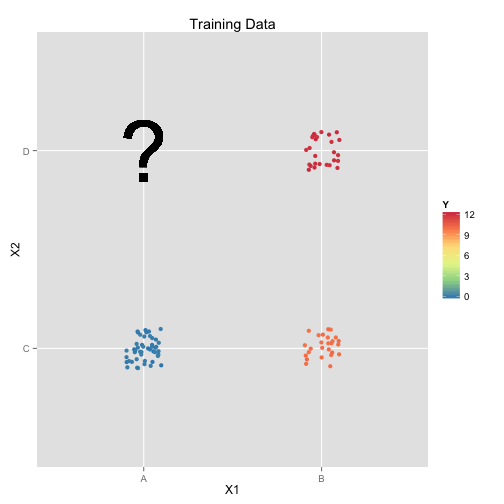
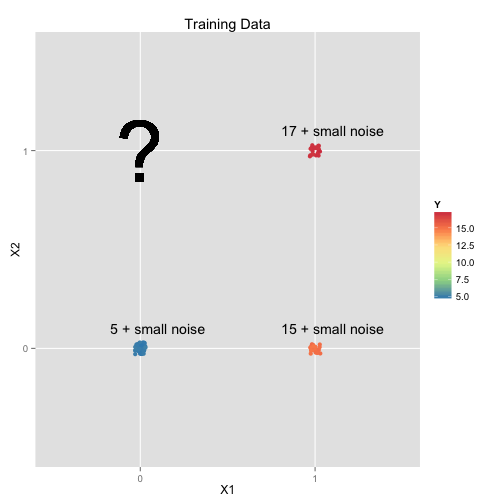
progress

diff --git a/_posts/2015-01-14-interaction-or-not.md b/_posts/2015-01-14-interaction-or-not.md
@@ -1,32 +1,48 @@
 ---
-title: "Stuff"
+title: "A Preference for Interactions? (Know Your Implicit Priors!)"
 layout: post
 category: posts
 draft: true
 ---
 
+Often we think of "interactions" (when the effect of one feature differs depending on the value of another) as interesting/surprising discoveries. Given that, we often use models that prefer not using interactions, introducing them only when the evidence warrants. In this post, I'll use a simple toy example to walk through why decision trees and ensembles of decision trees (Random Forests) do just the opposite: When the evidence is equally consistent with an interaction effect and no interaction, they prefer the interaction effect.
+
+I'll also look at a neat Bayesian machine learning algorithm, [Bayesian Additive Regression Trees](http://cran.r-project.org/web/packages/bartMachine/vignettes/bartMachine.pdf), and show how the parameters controlling the prior distribution affect the model's tendency to learn an interaction effect.
+
+Suppose you're given this data and asked to make a prediction about `$X_1 = 0$, $X_2 = 1$`.
+
 ![plot of chunk unnamed-chunk-1](/images/posts/interaction-or-not/unnamed-chunk-1.png) 
 
-
-```r
-library(xtable)
-print(xtable(uniques, align=rep("c", 4)), type="html", include.rownames=FALSE)
-```
-
 <!-- html table generated in R 3.1.1 by xtable 1.7-3 package -->
-<!-- Wed Jan 14 09:46:24 2015 -->
+<!-- Thu Jan 15 10:34:20 2015 -->
 <TABLE border=1>
 <TR> <TH> X1 </TH> <TH> X2 </TH> <TH> Y </TH>  </TR>
-  <TR> <TD align="center"> A </TD> <TD align="center"> C </TD> <TD align="center"> 0 + very small noise </TD> </TR>
-  <TR> <TD align="center"> B </TD> <TD align="center"> D </TD> <TD align="center"> 12 + very small noise </TD> </TR>
-  <TR> <TD align="center"> B </TD> <TD align="center"> C </TD> <TD align="center"> 10 + very small noise </TD> </TR>
-  <TR> <TD align="center"> A </TD> <TD align="center"> D </TD> <TD align="center"> ? </TD> </TR>
+  <TR> <TD align="center"> 1 </TD> <TD align="center"> 0 </TD> <TD align="center"> 15 + small noise </TD> </TR>
+  <TR> <TD align="center"> 0 </TD> <TD align="center"> 0 </TD> <TD align="center"> 5 + small noise </TD> </TR>
+  <TR> <TD align="center"> 1 </TD> <TD align="center"> 1 </TD> <TD align="center"> 17 + small noise </TD> </TR>
+  <TR> <TD align="center"> 0 </TD> <TD align="center"> 1 </TD> <TD align="center"> ? </TD> </TR>
    </TABLE>
+
+This example is probably so simple that in practice a model wouldn't be useful. It reminds me of an old criticism of Bayesian reasoning: *If you can really know your prior (what you should think given all previous information), why bother with a model rather than just look at the data and report what you think afterward (your new 'prior') as the answer?* In this case, that's probably exactly what you *should* do.
+
+### A Linear Model
+
+If you fit a linear model of the form `$\mathbb{E}[Y] = \beta_0 + \beta_1 X_1 + \beta_2 X_2$`, you find
+
+`$$\mathbb{E}[Y] = 5 + 10 X_1 + 2 X_2$$`
+
+and this fits the data very well. 
+
+
+
+### Random Forest
+
+
 
 
 
 ```r
-# test <- expand.grid(X1 = c("A", "B"),  X2 = c("C", "D"))
+test <- expand.grid(X1 = 0:1,  X2 = 0:1)
 # ?randomForest
 # library(randomForest)
 # rf <- randomForest(train, y = Y, mtry=2, ntree=1)
